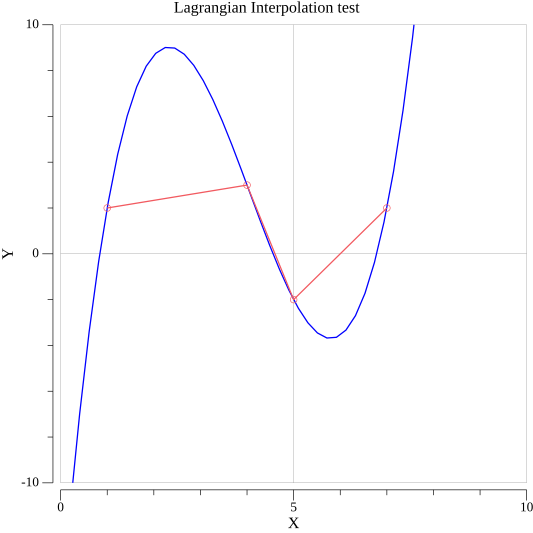
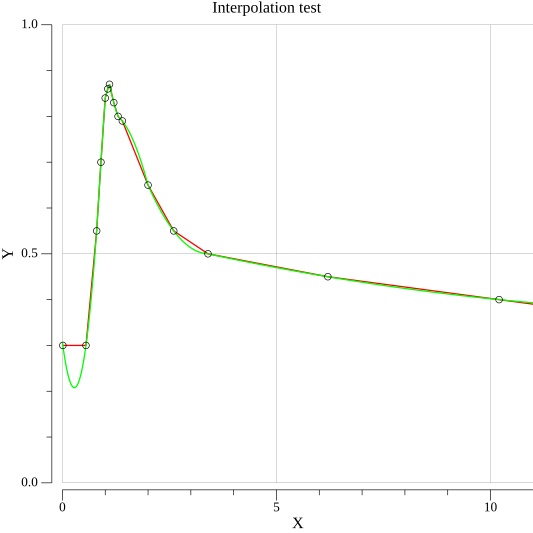
Linear and quadratic interpolations & Cramer's rule

diff --git a/cmd/test/main.go b/cmd/test/main.go
@@ -6,47 +6,109 @@ import (
 	numericalanalysis "github.com/Russia9/numerical-analysis"
 	"gonum.org/v1/plot"
 	"gonum.org/v1/plot/plotter"
-	"gonum.org/v1/plot/plotutil"
 )
 
 func main() {
 	p := plot.New()
 
-	p.Title.Text = "Lagrangian Interpolation test"
+	p.Title.Text = "Interpolation test"
 	p.X.Label.Text = "X"
 	p.Y.Label.Text = "Y"
 	p.Add(plotter.NewGrid())
-	p.X.Min = 0
-	p.X.Max = 10
-	p.Y.Min = -10
-	p.Y.Max = 10
 
+	// --- Cxa(M)
+	p.X.Min = 0
+	p.X.Max = 11
+	p.Y.Min = 0
+	p.Y.Max = 1
 	points := []numericalanalysis.Point2D{
-		{X: 1, Y: 2},
-		{X: 4, Y: 3},
-		{X: 5, Y: -2},
-		{X: 7, Y: 2},
+		{X: 0.01, Y: 0.30},
+		{X: 0.55, Y: 0.30},
+		{X: 0.8, Y: 0.55},
+		{X: 0.9, Y: 0.70},
+		{X: 1.0, Y: 0.84},
+		{X: 1.06, Y: 0.86},
+		{X: 1.1, Y: 0.87},
+		{X: 1.2, Y: 0.83},
+		{X: 1.3, Y: 0.80},
+		{X: 1.4, Y: 0.79},
+		{X: 2.0, Y: 0.65},
+		{X: 2.6, Y: 0.55},
+		{X: 3.4, Y: 0.50},
+		{X: 6.2, Y: 0.45},
+		{X: 10.2, Y: 0.40},
 	}
 
-	interpFunc := numericalanalysis.LagrangeInterpolation(points)
+	// --- C^a_ya(M)
+	// p.X.Min = 0
+	// p.X.Max = 11
+	// p.Y.Min = 0
+	// p.Y.Max = 1
+	// points := []numericalanalysis.Point2D{
+	// 	{X: 0.01, Y: 0.25},
+	// 	{X: 0.55, Y: 0.25},
+	// 	{X: 0.8, Y: 0.25},
+	// 	{X: 0.9, Y: 0.20},
+	// 	{X: 1.0, Y: 0.30},
+	// 	{X: 1.06, Y: 0.31},
+	// 	{X: 1.1, Y: 0.25},
+	// 	{X: 1.2, Y: 0.25},
+	// 	{X: 1.3, Y: 0.25},
+	// 	{X: 1.4, Y: 0.25},
+	// 	{X: 2.0, Y: 0.25},
+	// 	{X: 2.6, Y: 0.25},
+	// 	{X: 3.4, Y: 0.25},
+	// 	{X: 6.2, Y: 0.25},
+	// 	{X: 10.2, Y: 0.25},
+	// }
+
+	// p.X.Min = 0
+	// p.X.Max = 10
+	// p.Y.Min = -4
+	// p.Y.Max = 4
+	// points := []numericalanalysis.Point2D{
+	// 	{X: 0.0, Y: 0.0},
+	// 	{X: 1.0, Y: 2.0},
+	// 	{X: 2.0, Y: -1.0},
+	// 	{X: 3.0, Y: 1.0},
+	// 	{X: 2.0, Y: -1.0},
+	// }
+
+	lagrange := numericalanalysis.LagrangeInterpolation1D(points)
+	linear := numericalanalysis.LinearInterpolation1D(points)
+	quadratic := numericalanalysis.QuadraticInterpolation1D(points)
+
+	lagrangePlotter := plotter.NewFunction(lagrange)
+	lagrangePlotter.Color = color.RGBA{B: 255, A: 255}
+	lagrangePlotter.Samples = 1000
+
+	linearPlotter := plotter.NewFunction(linear)
+	linearPlotter.Color = color.RGBA{R: 255, A: 255}
+	linearPlotter.Samples = 1000
+
+	quadraticPlotter := plotter.NewFunction(quadratic)
+	quadraticPlotter.Color = color.RGBA{G: 255, A: 255}
+	quadraticPlotter.Samples = 1000
+
+	// p.Add(lagrangePlotter)
+	p.Add(linearPlotter)
+	p.Add(quadraticPlotter)
 
 	// Create test table
-	for i := 0; i < 10; i++ {
-		x := float64(i)
-		y := interpFunc(x)
-		println(x, y)
-	}
-
-	interp := plotter.NewFunction(numericalanalysis.LagrangeInterpolation(points))
-	interp.Color = color.RGBA{B: 255, A: 255}
-
-	p.Add(interp)
+	// for i := 0.0; i < 10; i += 0.1 {
+	// 	x := float64(i)
+	// 	println(x, lagrange(x), linear(x))
+	// }
 
 	xys := make(plotter.XYs, len(points))
 	for i, point := range points {
 		xys[i] = struct{ X, Y float64 }{point.X, point.Y}
 	}
-	plotutil.AddLinePoints(p, xys)
+	scatter, err := plotter.NewScatter(xys)
+	if err != nil {
+		panic(err)
+	}
+	p.Add(scatter)
 
 	p.Save(400, 400, "lagrange.png")
 }

diff --git a/interpolation.go b/interpolation.go
@@ -1,6 +1,6 @@
 package numericalanalysis
 
-func LagrangeInterpolation(points []Point2D) Func1D {
+func LagrangeInterpolation1D(points []Point2D) Func1D {
 	n := len(points)
 
 	// Lagrange basis polynomials
@@ -25,5 +25,54 @@ func LagrangeInterpolation(points []Point2D) Func1D {
 			result += l[i](x)
 		}
 		return result
+	}
+}
+
+func LinearInterpolation1D(points []Point2D) Func1D {
+	n := len(points)
+
+	return func(x float64) float64 {
+		i := 0
+		if x < points[0].X {
+			i = 0
+		} else if x >= points[n-1].X {
+			i = n - 2
+		} else {
+			for i = 0; i < n-1; i++ {
+				if points[i].X <= x && x < points[i+1].X {
+					break
+				}
+			}
+		}
+
+		return points[i].Y + (points[i+1].Y-points[i].Y)/(points[i+1].X-points[i].X)*(x-points[i].X)
+	}
+}
+
+func QuadraticInterpolation1D(points []Point2D) Func1D {
+	n := len(points)
+	if n < 3 {
+		return nil
+	}
+
+	return func(x float64) float64 {
+		i := 1
+		if x < points[1].X {
+			i = 1
+		} else if x >= points[n-2].X {
+			i = n - 2
+		} else {
+			// Find center point of the point region
+			for j := 1; j < n-1; j += 2 {
+				if points[j-1].X <= x && x < points[j+1].X {
+					i = j
+					break
+				}
+			}
+		}
+
+		return points[i-1].Y*(x-points[i].X)*(x-points[i+1].X)/((points[i-1].X-points[i].X)*(points[i-1].X-points[i+1].X)) +
+			points[i].Y*(x-points[i-1].X)*(x-points[i+1].X)/((points[i].X-points[i-1].X)*(points[i].X-points[i+1].X)) +
+			points[i+1].Y*(x-points[i-1].X)*(x-points[i].X)/((points[i+1].X-points[i-1].X)*(points[i+1].X-points[i].X))
 	}
 }

diff --git a/matrix.go b/matrix.go
@@ -1,0 +1,59 @@
+package numericalanalysis
+
+type Matrix [][]float64
+
+func (m Matrix) Det() float64 {
+	// Check if the matrix is square
+	if len(m) != len(m[0]) {
+		panic("matrix is not square")
+	}
+
+	// Base cases
+	n := len(m)
+	if n == 1 {
+		return m[0][0]
+	}
+	if n == 2 {
+		return m[0][0]*m[1][1] - m[0][1]*m[1][0]
+	}
+
+	// Recursive case
+	var det float64
+	for i := 0; i < n; i++ {
+		// Create submatrix b by removing the first row and i-th column
+		submatrix := make(Matrix, n-1)
+		for j := 0; j < n-1; j++ {
+			submatrix[j] = make([]float64, n-1)
+			for k := 0; k < n-1; k++ {
+				if k < i {
+					submatrix[j][k] = m[j+1][k]
+				} else {
+					submatrix[j][k] = m[j+1][k+1]
+				}
+			}
+		}
+
+		// Recursively calculate the determinant
+		if i%2 == 0 {
+			det += m[0][i] * submatrix.Det()
+		} else {
+			det -= m[0][i] * submatrix.Det()
+		}
+	}
+
+	return det
+}
+
+func (m Matrix) Add(n Matrix) Matrix {
+	if len(m) != len(n) || len(m[0]) != len(n[0]) {
+		panic("matrix size mismatch")
+	}
+	result := make(Matrix, len(m))
+	for i := range m {
+		result[i] = make([]float64, len(m[i]))
+		for j := range m[i] {
+			result[i][j] = m[i][j] + n[i][j]
+		}
+	}
+	return result
+}

diff --git a/systems.go b/systems.go
@@ -1,0 +1,26 @@
+package numericalanalysis
+
+func Cramer(matrix Matrix, free []float64) ([]float64, error) {
+	// Find determinant of matrix
+	det := matrix.Det()
+	if det == 0 { // If determinant is zero, then there is no solution, need to use another method
+		return nil, ErrNoSolution
+	}
+
+	// Find solution
+	result := make([]float64, len(free))
+	for i := 0; i < len(free); i++ {
+		// Replace i-th column with free vector
+		matrixCopy := make(Matrix, len(matrix))
+		for j := 0; j < len(matrix); j++ {
+			matrixCopy[j] = make([]float64, len(matrix[j]))
+			copy(matrixCopy[j], matrix[j])
+			matrixCopy[j][i] = free[j]
+		}
+
+		// Calculate determinant of new matrix and divide it by determinant of original matrix
+		result[i] = matrixCopy.Det() / det
+	}
+
+	return result, nil
+}

diff --git a/systems_test.go b/systems_test.go
@@ -1,0 +1,29 @@
+package numericalanalysis_test
+
+import (
+	"testing"
+
+	numericalanalysis "github.com/Russia9/numerical-analysis"
+)
+
+func TestCramer(t *testing.T) {
+	t.Run("ok", func(t *testing.T) {
+		matrix := numericalanalysis.Matrix{
+			{2, 3},
+			{1, 1},
+		}
+		free := []float64{1, -1}
+
+		result, err := numericalanalysis.Cramer(matrix, free)
+		if err != nil {
+			t.Errorf("unexpected error: %v", err)
+		}
+
+		expected := []float64{-4, 3}
+		for i := range result {
+			if result[i] != expected[i] {
+				t.Errorf("unexpected result[%d]: got %v, want %v", i, result[i], expected[i])
+			}
+		}
+	})
+}

diff --git a/matrix_test.go b/matrix_test.go
@@ -1,0 +1,35 @@
+package numericalanalysis_test
+
+import (
+	"testing"
+
+	numericalanalysis "github.com/Russia9/numerical-analysis"
+)
+
+func TestMatrix_Det(t *testing.T) {
+	t.Run("zero", func(t *testing.T) {
+		matrix := numericalanalysis.Matrix{
+			{1, 2, 3},
+			{4, 5, 6},
+			{7, 8, 9},
+		}
+
+		det := matrix.Det()
+		if det != 0 {
+			t.Errorf("det = %v, want 0", det)
+		}
+	})
+
+	t.Run("nonzero", func(t *testing.T) {
+		matrix := numericalanalysis.Matrix{
+			{1, 2, 3},
+			{4, 5, 6},
+			{7, 8, 10},
+		}
+
+		det := matrix.Det()
+		if det != -3 {
+			t.Errorf("det = %v, want -3", det)
+		}
+	})
+}

diff --git a/common.go b/common.go
@@ -1,5 +1,7 @@
 package numericalanalysis
 
+import "errors"
+
 type Point2D struct {
 	X float64
 	Y float64
@@ -12,3 +14,5 @@ type Point3D struct {
 	Y float64
 	Z float64
 }
+
+var ErrNoSolution = errors.New("no solution")
